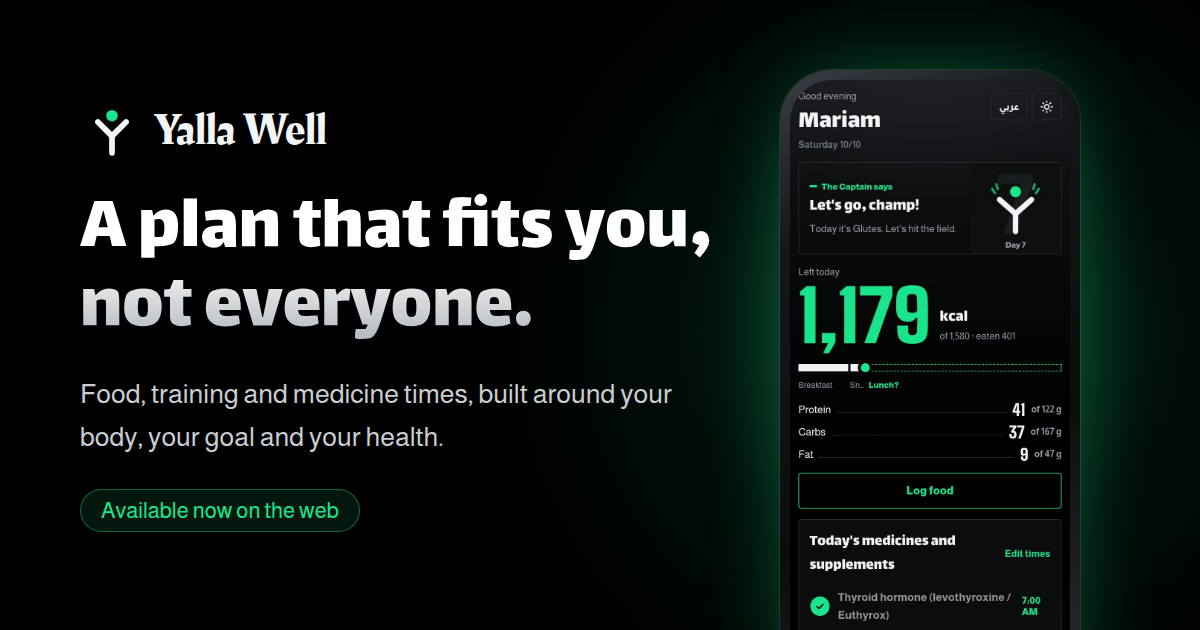
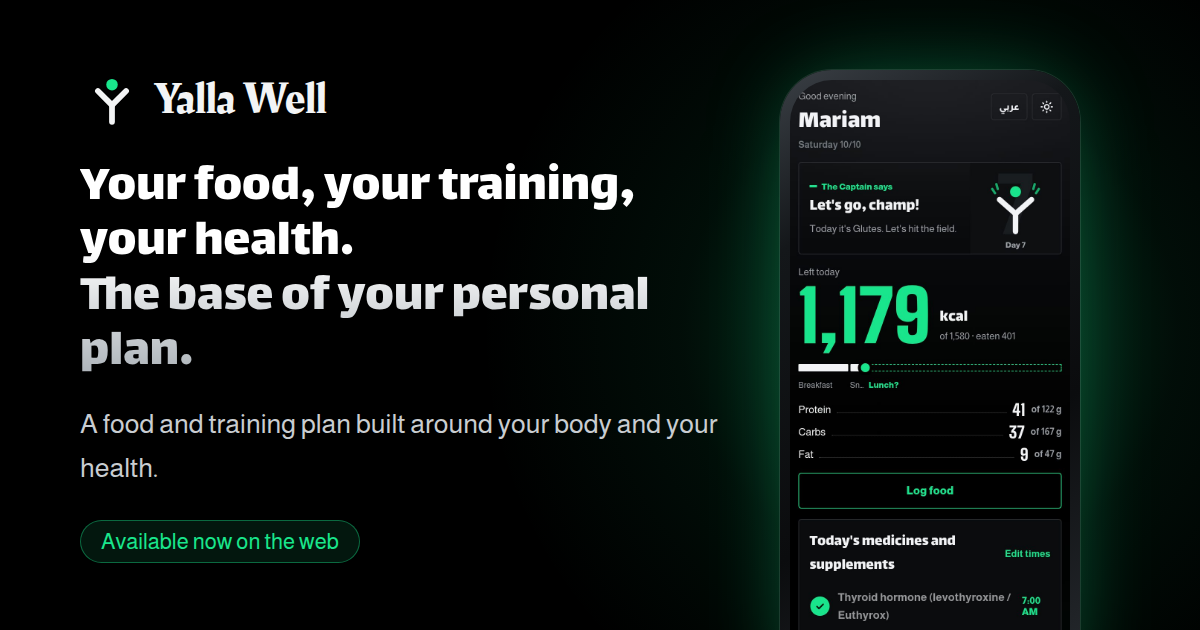
Website: new headline she picked; matching share images
Claude-Session: https://claude.ai/code/session_01JvbGA9GLXmNusdn7kVNFbD

Changed region(s): [[0.0617, 0.1206, 0.6167, 0.8746]]

diff --git a/website/static/site.css b/website/static/site.css
@@ -76,6 +76,7 @@ main { overflow-x: clip; }
   text-wrap: balance;
 }
 .is-en .display { line-height: 1; letter-spacing: -0.01em; }
+@media (max-width: 520px) { .display { font-size: 10vw; } }
 .h1 { font-size: clamp(40px, 6.4vw, 80px); line-height: 1.15; text-wrap: balance; }
 .h2 { font-size: clamp(32px, 4.6vw, 58px); line-height: 1.2; margin-bottom: 16px; text-wrap: balance; }
 .h3 { font-size: clamp(22px, 2.2vw, 26px); line-height: 1.35; }
